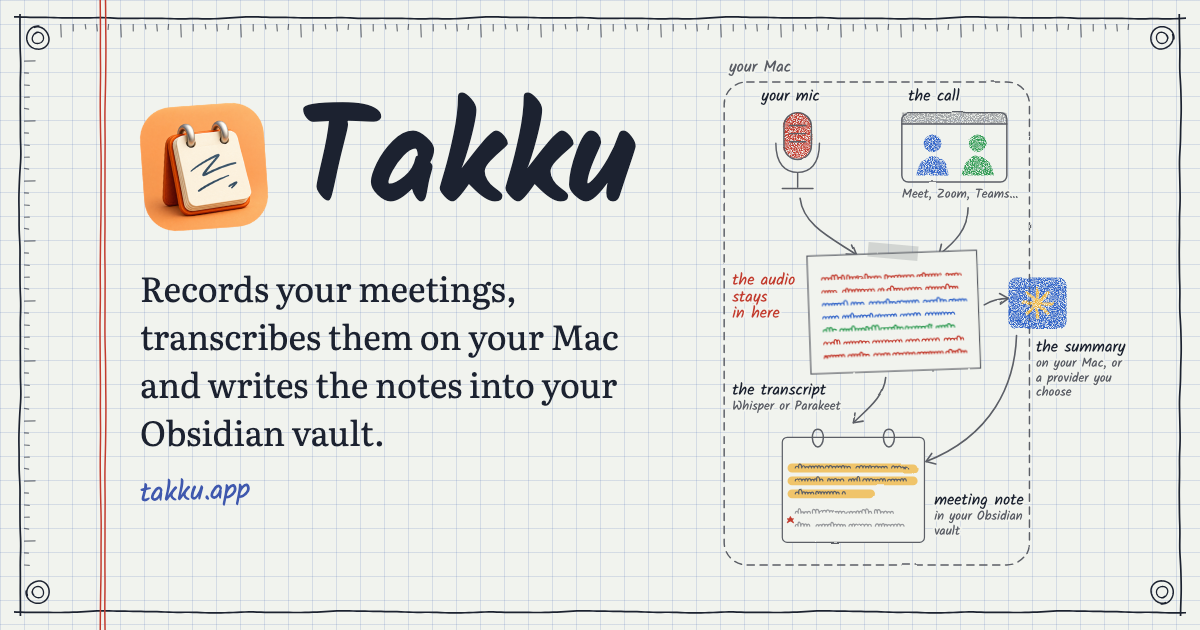
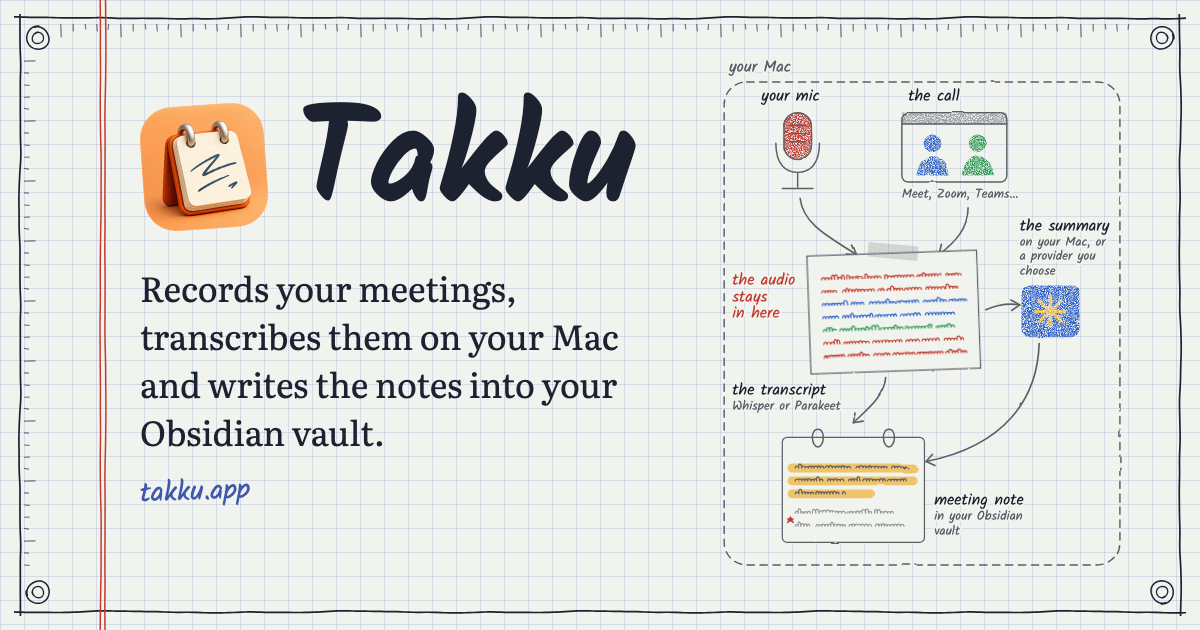
The summary inside your Mac, the title block under the notes
- Your Mac's dashed line now takes in the whole summary: the box sits inside it and
  its label goes above, as for the mic and the call; "on your Mac, or a provider you
  choose" still says where it can be written. On phones the drawing keeps clear of
  the sheet's frame. og.png is drawn again.
- The title block is aligned on the left with the notes, as wide as the box of
  "Where your data is", instead of sitting in the bottom right corner.

Changed region(s): [[0.7708, 0.3317, 0.9558, 0.754]]

diff --git a/public/index.html b/public/index.html
@@ -71,7 +71,7 @@
         </defs>
 
         <!-- Your Mac -->
-        <rect x="20" y="42" width="378" height="598" rx="28" class="boundary" filter="url(#wobble)"/>
+        <rect x="20" y="42" width="490" height="598" rx="28" class="boundary" filter="url(#wobble)"/>
         <text x="26" y="30" class="hand graphite-text">your Mac</text>
 
         <!-- Microphone, in red: you -->
@@ -114,18 +114,18 @@
 
         <!-- To the summary and back, and down to the note -->
         <g filter="url(#wobble)" class="arrow">
-          <path pathLength="1" class="trace late" d="M342 318c10-6 20-8 30-8"/>
-          <path pathLength="1" class="trace later" d="M382 356c-2 60-30 124-112 156"/>
+          <path pathLength="1" class="trace late" d="M344 324c14-6 30-8 42-6"/>
+          <path pathLength="1" class="trace later" d="M410 366c-2 66-40 126-140 146"/>
           <path pathLength="1" class="trace late" d="M220 408c-2 24-24 40-40 56"/>
-          <path class="trace head late" d="M372 310l-11-6M372 310l-10 7"/>
-          <path class="trace head later" d="M270 512l12 3M270 512l7-10"/>
+          <path class="trace head late" d="M386 318l-11-6M386 318l-10 7"/>
+          <path class="trace head later" d="M270 512l11 5M270 512l8-9"/>
           <path class="trace head late" d="M180 464l12-2M180 464l2-12"/>
         </g>
 
-        <!-- The summary, on the edge: a model on your Mac or elsewhere -->
+        <!-- The summary, labelled above as the mic and the call -->
         <g filter="url(#crayon)">
-          <rect x="372" y="284" width="72" height="64" rx="10" class="fill-blue"/>
-          <path d="M408 298v36M390 316h36M395 303l26 26M421 303l-26 26" class="sparkle"/>
+          <rect x="388" y="294" width="72" height="64" rx="10" class="fill-blue"/>
+          <path d="M424 308v36M406 326h36M411 313l26 26M437 313l-26 26" class="sparkle"/>
         </g>
 
         <!-- Meeting note, a notepad as in the icon -->
@@ -145,10 +145,10 @@
         <text x="30" y="294" class="hand red-text">the audio</text>
         <text x="30" y="314" class="hand red-text">stays</text>
         <text x="30" y="334" class="hand red-text">in here</text>
-        <text x="406" y="376" class="hand">the summary</text>
-        <text x="406" y="395" class="hand small graphite-text">on your Mac, or</text>
-        <text x="406" y="413" class="hand small graphite-text">a provider you</text>
-        <text x="406" y="431" class="hand small graphite-text">choose</text>
+        <text x="386" y="226" class="hand">the summary</text>
+        <text x="386" y="245" class="hand small graphite-text">on your Mac, or</text>
+        <text x="386" y="263" class="hand small graphite-text">a provider you</text>
+        <text x="386" y="281" class="hand small graphite-text">choose</text>
         <text x="280" y="566" class="hand">meeting note</text>
         <text x="280" y="585" class="hand small graphite-text">in your Obsidian</text>
         <text x="280" y="603" class="hand small graphite-text">vault</text>

diff --git a/public/style.css b/public/style.css
@@ -585,13 +585,12 @@ h2::after {
   transform-origin: left;
 }
 
-/* The title block, in the bottom right corner as in a technical drawing */
+/* The title block of a technical drawing, aligned with the notes */
 footer .main {
   padding-bottom: 8px;
 }
 .title-block-wrap {
-  margin-left: auto;
-  width: min(100%, 44rem);
+  width: min(100%, 42rem);
 }
 .title-block {
   width: 100%;
@@ -690,7 +689,7 @@ footer .main {
   h2 { font-size: 2rem; line-height: 44px; }
   .lead { font-size: 1.25rem; line-height: 32px; }
   .command { font-size: 0.875rem; padding: 12px 14px; }
-  .schematic { grid-column: 2; width: auto; margin: 0 -4px 48px 8px; }
+  .schematic { grid-column: 2; width: auto; margin: 0 4px 48px 8px; }
 
   .notes .note {
     position: static;

diff --git a/tools/drawing.py b/tools/drawing.py
@@ -76,7 +76,7 @@ svg = f'''<figure class="schematic">
         </defs>
 
         <!-- Your Mac -->
-        <rect x="20" y="42" width="378" height="598" rx="28" class="boundary" filter="url(#wobble)"/>
+        <rect x="20" y="42" width="490" height="598" rx="28" class="boundary" filter="url(#wobble)"/>
         <text x="26" y="30" class="hand graphite-text">your Mac</text>
 
         <!-- Microphone, in red: you -->
@@ -119,18 +119,18 @@ svg = f'''<figure class="schematic">
 
         <!-- To the summary and back, and down to the note -->
         <g filter="url(#wobble)" class="arrow">
-          <path pathLength="1" class="trace late" d="M342 318c10-6 20-8 30-8"/>
-          <path pathLength="1" class="trace later" d="M382 356c-2 60-30 124-112 156"/>
+          <path pathLength="1" class="trace late" d="M344 324c14-6 30-8 42-6"/>
+          <path pathLength="1" class="trace later" d="M410 366c-2 66-40 126-140 146"/>
           <path pathLength="1" class="trace late" d="M220 408c-2 24-24 40-40 56"/>
-          <path class="trace head late" d="M372 310l-11-6M372 310l-10 7"/>
-          <path class="trace head later" d="M270 512l12 3M270 512l7-10"/>
+          <path class="trace head late" d="M386 318l-11-6M386 318l-10 7"/>
+          <path class="trace head later" d="M270 512l11 5M270 512l8-9"/>
           <path class="trace head late" d="M180 464l12-2M180 464l2-12"/>
         </g>
 
-        <!-- The summary, on the edge: a model on your Mac or elsewhere -->
+        <!-- The summary, labelled above as the mic and the call -->
         <g filter="url(#crayon)">
-          <rect x="372" y="284" width="72" height="64" rx="10" class="fill-blue"/>
-          <path d="M408 298v36M390 316h36M395 303l26 26M421 303l-26 26" class="sparkle"/>
+          <rect x="388" y="294" width="72" height="64" rx="10" class="fill-blue"/>
+          <path d="M424 308v36M406 326h36M411 313l26 26M437 313l-26 26" class="sparkle"/>
         </g>
 
         <!-- Meeting note, a notepad as in the icon -->
@@ -150,10 +150,10 @@ svg = f'''<figure class="schematic">
         <text x="30" y="294" class="hand red-text">the audio</text>
         <text x="30" y="314" class="hand red-text">stays</text>
         <text x="30" y="334" class="hand red-text">in here</text>
-        <text x="406" y="376" class="hand">the summary</text>
-        <text x="406" y="395" class="hand small graphite-text">on your Mac, or</text>
-        <text x="406" y="413" class="hand small graphite-text">a provider you</text>
-        <text x="406" y="431" class="hand small graphite-text">choose</text>
+        <text x="386" y="226" class="hand">the summary</text>
+        <text x="386" y="245" class="hand small graphite-text">on your Mac, or</text>
+        <text x="386" y="263" class="hand small graphite-text">a provider you</text>
+        <text x="386" y="281" class="hand small graphite-text">choose</text>
         <text x="280" y="566" class="hand">meeting note</text>
         <text x="280" y="585" class="hand small graphite-text">in your Obsidian</text>
         <text x="280" y="603" class="hand small graphite-text">vault</text>
